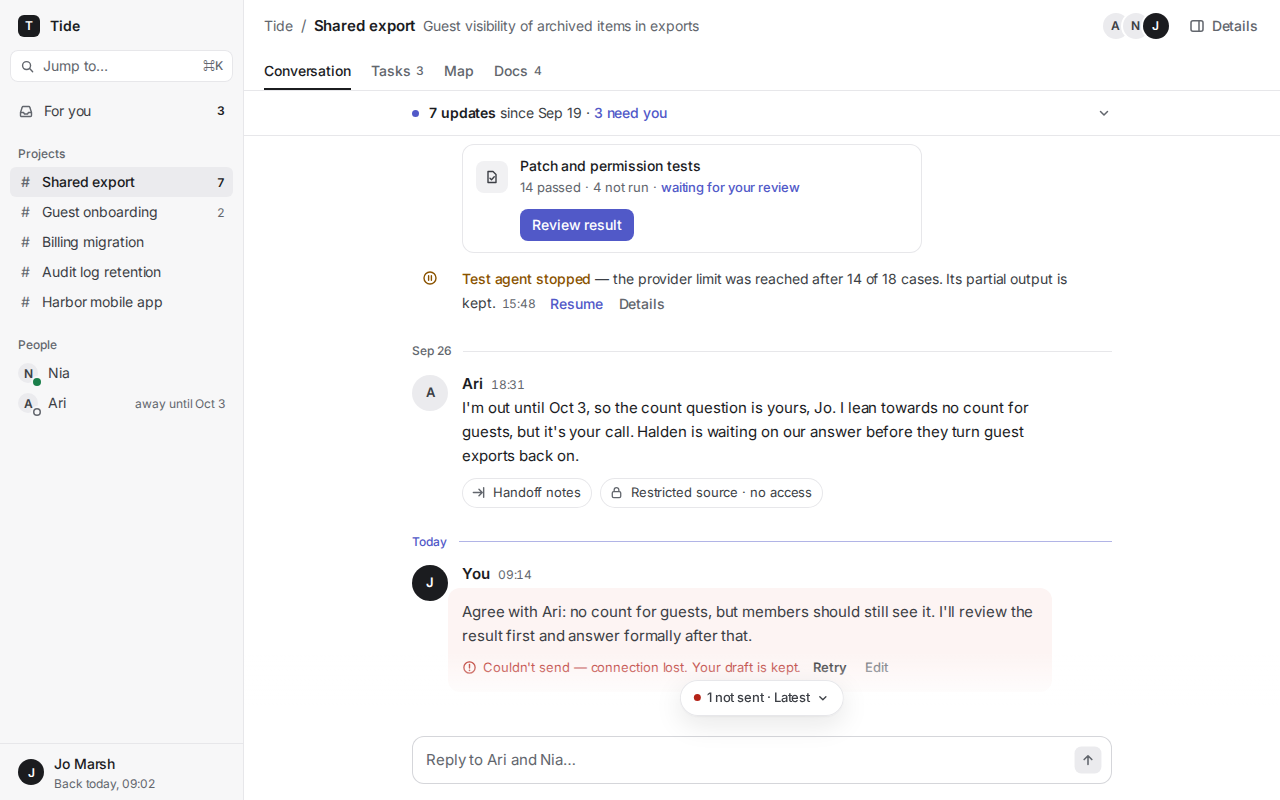
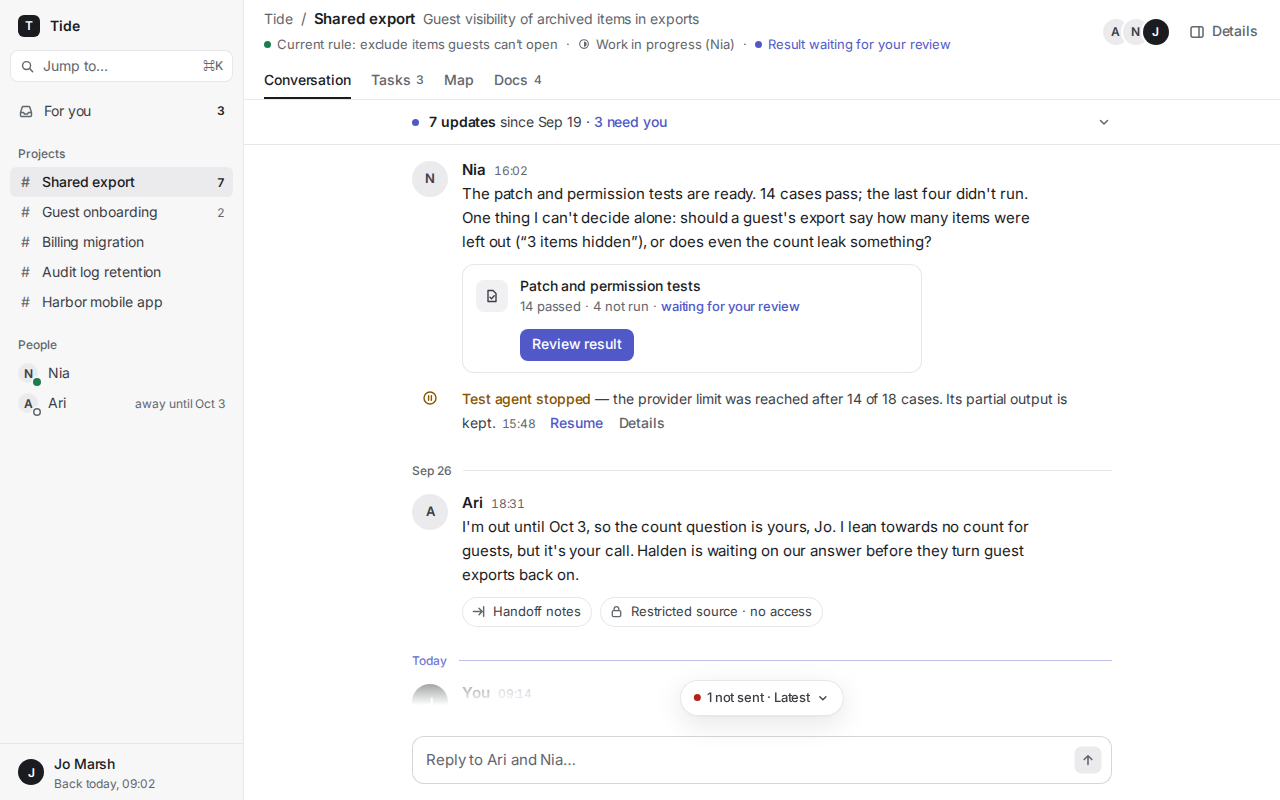
docs: address O-003 variant C review points (#15)
- Desktop: a quiet current-state line under the title (rule, work, result),
  each part opening its panel view; coarse pointers get one 44 px line that
  leads with "Result needs you" and opens Details.
- Phone header shows "Shared export > topic" (truncated) with the labelled
  Details action.
- Feed opens anchored on Nia's question above its result; a "You were away ·
  7 updates" divider marks where the unseen conversation starts; bottom
  padding for the pill, fade and safe area; the "1 not sent" pill jumps to
  the kept draft, pulses a ring once and focuses Retry.
- Regenerated audit, C and v8 comparison screenshots; evidence updated.

diff --git a/docs/design/proposals/o-003-ui-direction/variant-c-calm-messenger.html b/docs/design/proposals/o-003-ui-direction/variant-c-calm-messenger.html
@@ -240,7 +240,26 @@ svg { flex: none; }
 .faces .av + .av { margin-left: -6px; }
 .only-narrow { display: none; }
 
-.top { border-bottom: 0; }
+.top { border-bottom: 0; height: auto; min-height: 52px; padding-top: 7px; padding-bottom: 5px; }
+.head-b { flex: 1; min-width: 0; display: flex; flex-direction: column; gap: 1px; }
+.title { flex: none; }
+.title .sep { display: none; color: var(--text-3); }
+/* One quiet line with the current state; each part opens its panel view. */
+.state { display: flex; align-items: center; gap: 2px; min-width: 0; margin: 0 0 0 -6px; font-size: 13px; color: var(--text-3); white-space: nowrap; overflow: hidden; }
+.state-seg { display: inline-flex; align-items: center; gap: 6px; min-width: 0; flex: 0 1 auto; min-height: 24px; padding: 0 6px; border-radius: var(--r-sm); color: var(--text-3); transition: var(--tr); }
+.state-seg:hover { background: var(--bg-hover); color: var(--text); }
+.state-seg:active { transform: scale(.98); transition-duration: calc(var(--dur-1) / 2); }
+.state-seg.need { color: var(--accent); }
+.state-seg svg { color: var(--text-3); }
+.seg-t { min-width: 0; overflow: hidden; text-overflow: ellipsis; }
+.state-sep { flex: none; }
+.state-btn { display: none; }
+.day.away { color: var(--accent); }
+.day.away::after { background: var(--accent); opacity: .45; }
+/* The "1 not sent" pill jumps here and this ring pulses once around the kept draft. */
+.msg.failed .bubble::after { content: ""; position: absolute; inset: -3px; border-radius: calc(var(--r-lg) + 3px); box-shadow: 0 0 0 2px var(--danger); opacity: 0; pointer-events: none; }
+.msg.failed.flash .bubble::after { animation: flash 1.4s var(--ease-out) 1; }
+@keyframes flash { 15% { opacity: .85; } 100% { opacity: 0; } }
 .details-btn { gap: 7px; padding: 0 10px; }
 .details-btn[aria-expanded="true"] { background: var(--bg-active); color: var(--text); }
 
@@ -343,6 +362,8 @@ svg { flex: none; }
 /* ---------- Conversation ---------- */
 .feed { flex: 1; min-height: 0; overflow-y: auto; overflow-x: hidden; overscroll-behavior: contain; scroll-padding-bottom: 24px; }
 .feed-in { max-width: calc(var(--col) + 48px); margin: 0 auto; padding: 20px 24px 20px; }
+.feed { scroll-padding-bottom: calc(68px + env(safe-area-inset-bottom)); }
+.feed-wrap.has-latest .feed-in { padding-bottom: calc(68px + env(safe-area-inset-bottom)); }
 .feed-wrap { position: relative; flex: 1; min-height: 0; display: flex; flex-direction: column; }
 .latest { white-space: nowrap; position: absolute; left: 50%; bottom: 12px; z-index: 5;
   transform: translate(-50%, 16px); opacity: 0; visibility: hidden;
@@ -433,7 +454,7 @@ button.obj:hover { box-shadow: inset 0 0 0 1px var(--line-strong); background: v
 .msg.failed .bubble.resolved .text { color: var(--text); }
 .collapse { display: grid; grid-template-rows: 1fr; transition: grid-template-rows var(--dur-2) var(--ease-in), opacity var(--dur-1) var(--ease-in); }
 .collapse.gone { grid-template-rows: 0fr; opacity: 0; }
-.collapse > * { min-height: 0; overflow: hidden; }
+.collapse > * { min-height: 0; overflow: hidden; padding: 4px; margin: -4px; } /* room for focus rings */
 .fail { display: flex; align-items: center; flex-wrap: wrap; gap: 2px 12px; margin-top: 6px; font-size: 13px; color: var(--danger); }
 .fail-msg { display: flex; align-items: flex-start; gap: 6px; line-height: 1.45; }
 .fail-msg svg { margin-top: 2px; }
@@ -546,7 +567,6 @@ button.obj:hover { box-shadow: inset 0 0 0 1px var(--line-strong); background: v
 /* ---------- ≤980: side panel overlays instead of docking ---------- */
 @media (max-width: 980px) {
   .panel { position: fixed; right: 0; top: 0; bottom: 0; z-index: 40; width: min(420px, 100%); box-shadow: var(--shadow); border-left: 0; }
-  .title .topic { display: none; }
 }
 /* ---------- Coarse pointers: 44px targets ---------- */
 @media (pointer: coarse) {
@@ -561,6 +581,11 @@ button.obj:hover { box-shadow: inset 0 0 0 1px var(--line-strong); background: v
   .box textarea { min-height: 44px; padding: 10px 0; }
   .p-back { min-height: 44px; }
   .tab { min-height: 44px; padding: 0 12px; }
+  .state { display: none; }
+  .state-btn { display: flex; align-items: center; gap: 8px; flex: none; width: 100%; min-height: 44px; padding: 0 12px 0 20px; font-size: 13px; color: var(--text-3); text-align: left; white-space: nowrap; transition: var(--tr); }
+  .state-btn .seg-t { flex: 1; }
+  .state-btn svg { flex: none; color: var(--text-3); }
+  .state-btn:active { background: var(--bg-hover); }
   .seg-b { min-height: 44px; }
   .item { min-height: 56px; }
   .row-btn { min-height: 56px; }
@@ -570,9 +595,12 @@ button.obj:hover { box-shadow: inset 0 0 0 1px var(--line-strong); background: v
 @media (max-width: 640px) {
   body { font-size: 15px; }
   .top { height: 56px; padding: 0 4px; padding-top: env(safe-area-inset-top); height: calc(56px + env(safe-area-inset-top)); }
-  .title { flex-direction: column; align-items: center; gap: 0; line-height: 1.25; }
-  .title .crumb { font-size: 12px; order: 2; }
-  .title .slash, .faces, .presence { display: none; }
+  .top { padding-top: env(safe-area-inset-top); padding-bottom: 0; }
+  .title { flex: 1; min-width: 0; gap: 6px; line-height: 1.3; }
+  .title .crumb, .title .slash, .faces, .presence { display: none; }
+  .title .sep { display: inline; }
+  .title .topic { font-size: 15px; }
+  .state-btn { padding-left: 16px; padding-right: 10px; border-top: 1px solid var(--line); }
   .title h1 { font-size: 16px; }
   .since-in, .feed-in { padding-left: 16px; padding-right: 16px; }
   .composer { padding: 6px 10px 10px; padding-bottom: max(10px, env(safe-area-inset-bottom)); border-top: 1px solid var(--line); }
@@ -668,16 +696,27 @@ button.obj:hover { box-shadow: inset 0 0 0 1px var(--line-strong); background: v
   <main class="main" id="main">
     <header class="top">
       <button class="icon-btn only-narrow" type="button" id="menu-btn" aria-label="Open sidebar" aria-controls="sidebar" aria-expanded="false" data-tip="Sidebar" data-tip-align="start"><svg width="18" height="18"><use href="#i-menu"/></svg></button>
-      <div class="title">
-        <span class="crumb">Tide</span><span class="slash" aria-hidden="true">/</span>
-        <h1>Shared export</h1>
-        <span class="topic">Guest visibility of archived items in exports</span>
+      <div class="head-b">
+        <div class="title">
+          <span class="crumb">Tide</span><span class="slash" aria-hidden="true">/</span>
+          <h1>Shared export</h1><span class="sep" aria-hidden="true">›</span>
+          <span class="topic">Guest visibility of archived items in exports</span>
+        </div>
+        <p class="state" aria-label="Current state">
+          <button class="state-seg" type="button" data-open="decision"><span class="dot ok" aria-hidden="true"></span><span class="seg-t">Current rule: exclude items guests can’t open</span></button><span class="state-sep" aria-hidden="true">·</span>
+          <button class="state-seg" type="button" data-open="work"><svg width="12" height="12" aria-hidden="true"><use href="#i-st-progress"/></svg><span class="seg-t">Work in progress (Nia)</span></button><span class="state-sep" aria-hidden="true">·</span>
+          <button class="state-seg need" type="button" data-open="result"><span class="dot accent" aria-hidden="true"></span><span class="seg-t">Result waiting for your review</span></button>
+        </p>
       </div>
       <div class="top-right">
         <div class="faces" aria-label="Members: Ari, Nia, Jo"><span class="av" aria-hidden="true">A</span><span class="av" aria-hidden="true">N</span><span class="av me-av" aria-hidden="true">J</span></div>
         <button class="btn quiet details-btn" type="button" id="details-btn" data-open="overview" aria-controls="panel" aria-expanded="false" aria-keyshortcuts="]" data-tip="Toggle details   ]"><svg width="16" height="16" aria-hidden="true"><use href="#i-panel"/></svg>Details</button>
       </div>
     </header>
+    <button class="state-btn" type="button" data-open="overview" aria-controls="panel">
+      <span class="dot accent" aria-hidden="true"></span><span class="seg-t"><span class="need-you">Result needs you</span> · Work in progress (Nia) · Rule: exclude guest-hidden items</span>
+      <svg width="16" height="16" aria-hidden="true"><use href="#i-chev-r"/></svg>
+    </button>
     <div class="views" role="tablist" aria-label="Project views">
       <button class="tab" type="button" role="tab" id="tab-conversation" aria-selected="true" aria-controls="pane-conversation" data-pane="conversation">Conversation</button>
       <button class="tab" type="button" role="tab" id="tab-tasks" aria-selected="false" aria-controls="pane-tasks" data-pane="tasks" tabindex="-1">Tasks<span class="tab-n" aria-label="3 tasks">3</span></button>
@@ -716,6 +755,7 @@ button.obj:hover { box-shadow: inset 0 0 0 1px var(--line-strong); background: v
           <h2>Guest visibility of archived items in exports</h2>
           <p>Started by Ari on Sep 20 · Ari, Nia and you</p>
         </div>
+        <div class="day away" id="away">You were away · 7 updates since Sep 19</div>
         <button class="btn quiet earlier" type="button" id="earlier-btn" aria-expanded="false" aria-controls="earlier">Show 2 earlier messages</button>
         <div id="earlier" hidden>
           <div class="day">Sep 20</div>
@@ -1357,7 +1397,7 @@ button.obj:hover { box-shadow: inset 0 0 0 1px var(--line-strong); background: v
   });
 
   // ---- Latest pill ----
-  const latest = $('#latest'), feedWrap = $('.feed-wrap'), anchor = $('#review-btn').closest('.obj');
+  const latest = $('#latest'), feedWrap = $('.feed-wrap'), anchor = $('#review-btn').closest('.msg');
   const atBottom = () => feed.scrollHeight - feed.scrollTop - feed.clientHeight < 24;
   function setLatest(on) { latest.classList.toggle('show', on); latest.inert = !on; feedWrap.classList.toggle('has-latest', on); }
   function scrollToEnd() { feed.scrollTo({ top: feed.scrollHeight, behavior: T('--dur-1') ? 'smooth' : 'auto' }); }
@@ -1367,7 +1407,17 @@ button.obj:hover { box-shadow: inset 0 0 0 1px var(--line-strong); background: v
     setLatest(!atBottom());
   }
   feed.addEventListener('scroll', () => { if (atBottom()) setLatest(false); }, { passive: true });
-  latest.addEventListener('click', () => { setLatest(false); scrollToEnd(); feed.focus({ preventScroll: true }); });
+  latest.addEventListener('click', () => {
+    setLatest(false);
+    const failed = $('#failed-msg.failed');
+    if (!failed) { scrollToEnd(); feed.focus({ preventScroll: true }); return; }
+    // Jump to the kept draft (not merely the bottom) and mark it once, then put focus on Retry.
+    failed.scrollIntoView({ block: 'end', behavior: T('--dur-1') ? 'smooth' : 'auto' });
+    $('#retry-btn').focus({ preventScroll: true });
+    failed.classList.remove('flash'); void failed.offsetWidth;
+    setTimeout(() => failed.classList.add('flash'), T('--dur-3'));
+    setTimeout(() => failed.classList.remove('flash'), T('--dur-3') + 1500);
+  });
 
   // ---- Failed reply: Retry → spinner → check → the message settles into the conversation ----
   const retry = $('#retry-btn');
@@ -1484,7 +1534,7 @@ button.obj:hover { box-shadow: inset 0 0 0 1px var(--line-strong); background: v
   // Timestamps get their full date as a delayed hover tooltip.
   let day = 'Today';
   const fullDay = d => d === 'Today' ? 'Today' : new Date(`${d}, 2026 12:00`).toLocaleDateString('en-US', { weekday: 'long', month: 'long', day: 'numeric' });
-  $$('.day, .msg time', feed).forEach(el => { if (el.classList.contains('day')) day = el.textContent.trim(); else el.dataset.tip = `${fullDay(day)} at ${el.textContent}`; });
+  $$('.day:not(.away), .msg time', feed).forEach(el => { if (el.classList.contains('day')) day = el.textContent.trim(); else el.dataset.tip = `${fullDay(day)} at ${el.textContent}`; });
 
   // Keyboard: Esc closes the top layer, ] toggles details, ⌘K / Ctrl+K jumps
   document.addEventListener('keydown', e => {

diff --git a/docs/design/proposals/o-003-ui-direction/evidence.md b/docs/design/proposals/o-003-ui-direction/evidence.md
@@ -48,9 +48,10 @@ What was motion-checked:
 - The typing dots pulse in a staggered wave. Resume on the stopped Test agent moves through Stopped → a spinner with "Resuming…" → a running dot with a short ping, in the notice, the panel and the overview row.
 - Hover backgrounds fade, and buttons, chips and rows scale slightly on press (0.98, rows 0.99, icons 0.94). The focus ring fades in and settles 2 px inwards. One selection background slides between sidebar items, and one underline slides between the view tabs, whose panes cross-fade from their side.
 - On tablet and phone, the drawer and sheets slide on `--ease-sheet` over a fading backdrop, and tapping the backdrop closes them. The "1 not sent · Latest" pill slides up or down. While it shows, a fade behind it keeps it from cutting through a line of text. Tapping it scrolls smoothly to the latest message.
+- Review follow-up (Hubert, on `64bf1c4`): under the title, one quiet current-state line ("Current rule … · Work in progress (Nia) · Result waiting for your review"). Each part opens its panel view. With a coarse pointer it collapses into one 44 px line, which leads with "Result needs you" and opens Details. The phone header shows "Shared export › topic", truncated, with the labelled Details. The feed opens anchored on Nia's question, above its result. A "You were away · 7 updates since Sep 19" divider marks where the unseen conversation starts (it began Sep 20). While the pill shows, the feed gets bottom padding for the pill, its fade and the safe area. The pill scrolls to the kept draft, pulses a ring around it once and focuses Retry. The composer is in the layout flow rather than overlaid, so the feed always ends above it.
 - Tooltips (Details `]`, Close `Esc`, full dates on timestamps) appear after 450 ms, only on hover-capable pointers. Copy link, Confirm, Request access and Relink show a brief inline "✓" confirmation. Relink also updates the feed notice and the Docs row.
 
-How it was verified: a throwaway Playwright script (not checked in) in the same image ran 48 checks at 1440×900, 768×1024 and 390×844, plus reduced motion. It covered the final states, focus after the animation, focus return, tabs with arrow keys and Home, backdrop taps, and no console errors. All passed. Frame sequences at 0/60/120/200/300 ms were captured by pausing the Web Animations timeline, then inspected. Two rounds came from those frames. The panel view cross-fade overlapped two views at half opacity at 60 ms, so the outgoing view now leaves in 72 ms and the incoming view starts at 60 ms. The phone sheet had covered 83% of its travel by 60 ms, so the sheet curve is now gentler, at 59%, and 280 ms long. The first tab switch left a blank frame and became a true cross-fade. The first Map/List switch flew the nodes diagonally and became a quick content swap. `screenshots/c-journey.webm` (1280×800, 1.9 MB) records the main desktop journey. Frame inspection is visual evidence only. Actual frame rate on real devices was not measured.
+How it was verified: a throwaway Playwright script (not checked in) in the same image ran 53 checks at 1440×900, 768×1024 and 390×844, plus reduced motion. It covered the final states, focus after the animation, focus return, tabs with arrow keys and Home, backdrop taps, and no console errors. All passed. Frame sequences at 0/60/120/200/300 ms were captured by pausing the Web Animations timeline, then inspected. Two rounds came from those frames. The panel view cross-fade overlapped two views at half opacity at 60 ms, so the outgoing view now leaves in 72 ms and the incoming view starts at 60 ms. The phone sheet had covered 83% of its travel by 60 ms, so the sheet curve is now gentler, at 59%, and 280 ms long. The first tab switch left a blank frame and became a true cross-fade. The first Map/List switch flew the nodes diagonally and became a quick content swap. `screenshots/c-journey.webm` (1280×800, 1.9 MB) records the main desktop journey. Frame inspection is visual evidence only. Actual frame rate on real devices was not measured.
 
 **What these checks do not cover:**
 - Contrast of non-text elements (borders and icons) is not computed.
